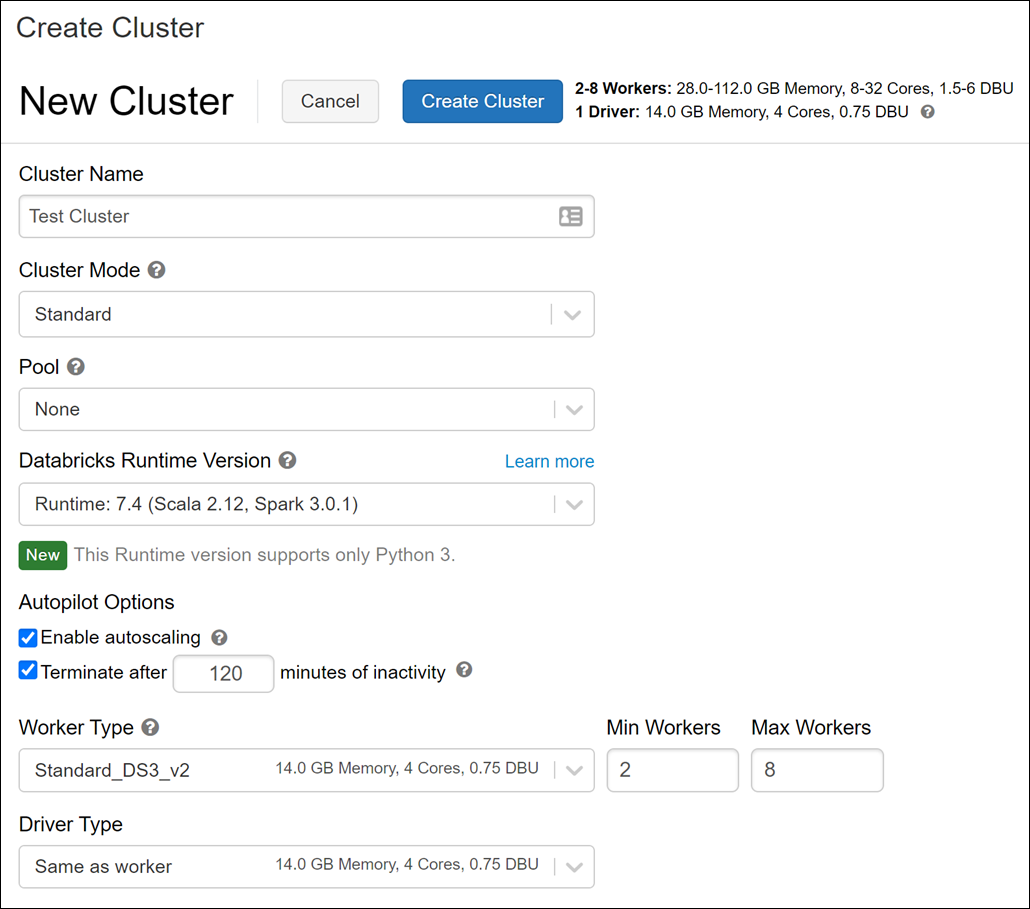
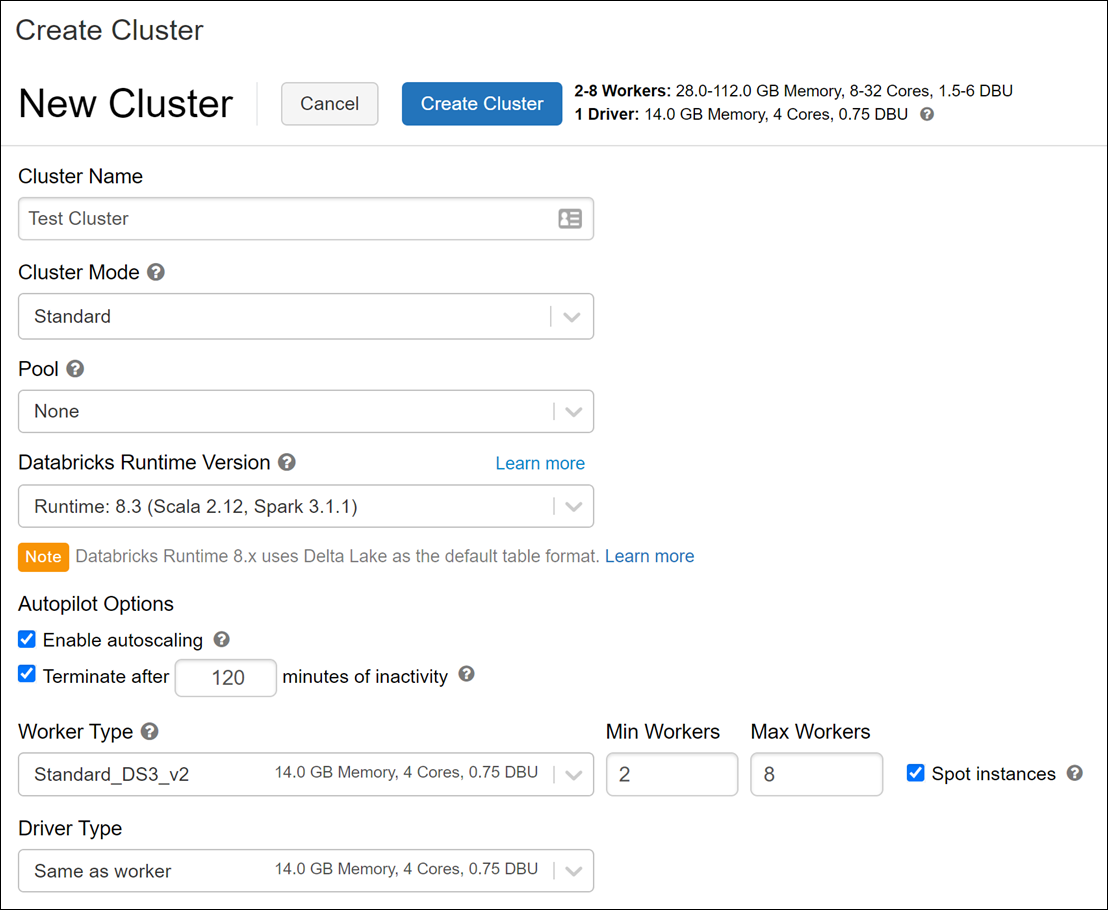
Updated Databricks cluster instructions

diff --git a/Instructions/Labs/01/README.md b/Instructions/Labs/01/README.md
@@ -190,7 +190,7 @@ We highly recommend executing the PowerShell scripts on an Azure Virtual Machine
 
    <a href="https://portal.azure.com/#create/Microsoft.Template/uri/https%3A%2F%2Fraw.githubusercontent.com%2FAzure%2Fazure-quickstart-templates%2Fmaster%2Fquickstarts%2Fmicrosoft.databricks%2Fdatabricks-workspace%2Fazuredeploy.json" target="_blank"><img src="https://aka.ms/deploytoazurebutton" /></a>
 
-1. Provide the required values to create your Azure Databricks workspace:
+2. Provide the required values to create your Azure Databricks workspace:
 
    - **Subscription**: Choose the Azure Subscription in which to deploy the workspace.
    - **Resource Group**: Select the resource group you previously created.
@@ -202,24 +202,24 @@ We highly recommend executing the PowerShell scripts on an Azure Virtual Machine
 
    ![The form is configured as described.](media/databricks-arm-template.png "Deploy an Azure Databricks Workspace")
 
-2. Select **Review + create**.
-3. Select **Create**.
-4. The workspace creation takes a few minutes. During workspace creation, the portal displays the Submitting deployment for Azure Databricks tile on the right side. You may need to scroll right on your dashboard to see the tile. There is also a progress bar displayed near the top of the screen. You can watch either area for progress.
+3. Select **Review + create**.
+4. Select **Create**.
+5. The workspace creation takes a few minutes. During workspace creation, the portal displays the Submitting deployment for Azure Databricks tile on the right side. You may need to scroll right on your dashboard to see the tile. There is also a progress bar displayed near the top of the screen. You can watch either area for progress.
 
 ### Task 6: Create a cluster
 
 1. When your Azure Databricks workspace creation is complete, select the link to go to the resource.
-1. Select **Launch Workspace** to open your Databricks workspace in a new tab.
-1. In the left-hand menu of your Databricks workspace, select **Clusters**.
-1. Select **Create Cluster** to add a new cluster.
+2. Select **Launch Workspace** to open your Databricks workspace in a new tab.
+3. In the left-hand menu of your Databricks workspace, select **Compute**.
+4. Select **Create Cluster** to add a new cluster.
 
     ![The create cluster page](media/create-a-cluster.png)
 
-1. Enter a name for your cluster, such as `Test Cluster`.
-1. Select the **Databricks RuntimeVersion**. We recommend the latest runtime and **Scala 2.12**.
-1. Select the default values for the cluster configuration.
-1. Select **Create Cluster**.
-
+5. Enter a name for your cluster, such as `Test Cluster`.
+6. Select the **Databricks RuntimeVersion**. We recommend the latest runtime and **Scala 2.12**.
+7. Select the default values for the cluster configuration.
+8. Check **Spot instances** to optimize costs.
+9. Select **Create Cluster**.
 
 ## Before starting
 
